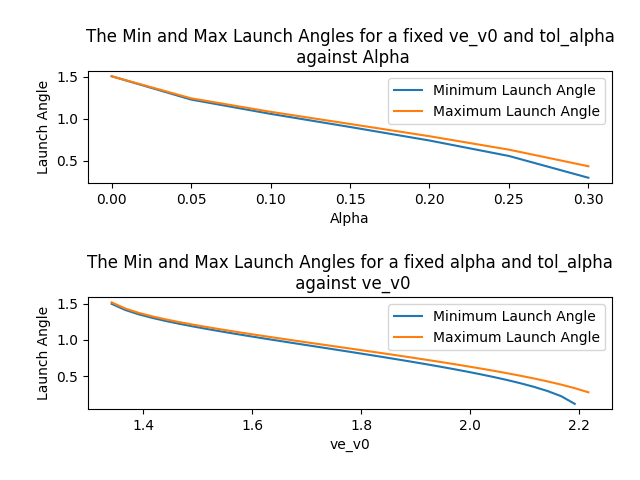
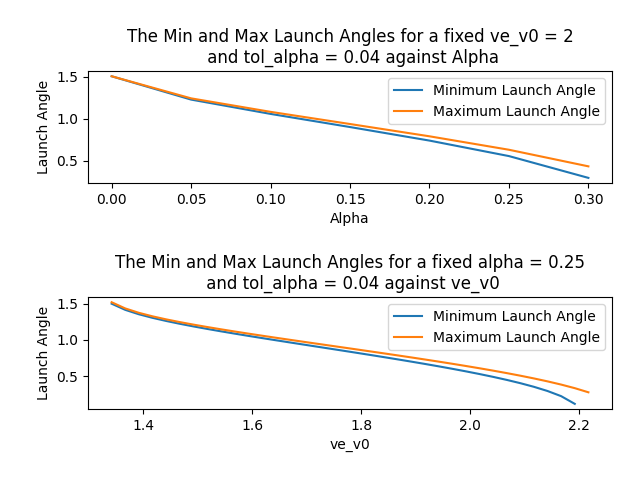
more changes

diff --git a/src/launch.py b/src/launch.py
@@ -165,7 +165,7 @@ def max_altitude_ratio(ve_v0):
     for a given velocity ratio.
     Perameters
     ----------
-    sin(x) = 0
+    sin(x) = 0 (x=0)
         Angle when leaving is vertical
         In the sin function created earlier, I use x, x = phi
     Reterns
@@ -185,7 +185,7 @@ def min_velocity_ratio(alpha):
     for a given target peak altitude ratio.
     Perameters
     ----------
-    sin(x) = pi/2
+    sin(x) = 1 (x=pi/2)
         At this angle we will need the more initial velocity which gives a smaller ratio 
         In the sin function created earlier, I use x, x = phi
     Return
@@ -206,7 +206,7 @@ def max_velocity_ratio(alpha):
     for a given target peak altitude ratio.
     Perameters
     ----------
-    sin(x) = 0
+    sin(x) = 0 (x=0)
         At this angle we will need less initial velocity which gives a bigger ratio
         In the sin function created earlier, I use x, x = phi
 

diff --git a/src/driver.py b/src/driver.py
@@ -45,7 +45,7 @@ def main():
     plt.plot(alpha_range, max_alpha_angle, label = "Maximum Launch Angle")
     plt.xlabel("Alpha")
     plt.ylabel("Launch Angle")
-    plt.title("The Min and Max Launch Angles for a fixed ve_v0 and tol_alpha\n against Alpha")
+    plt.title("The Min and Max Launch Angles for a fixed ve_v0 = 2\n and tol_alpha = 0.04 against Alpha")
     plt.legend()
    
     
@@ -73,7 +73,7 @@ def main():
     plt.plot(ve_v0_range, max_ve_v0_angle, label = "Maximum Launch Angle")
     plt.xlabel("ve_v0")
     plt.ylabel("Launch Angle")
-    plt.title("The Min and Max Launch Angles for a fixed alpha and tol_alpha\n against ve_v0")
+    plt.title("The Min and Max Launch Angles for a fixed alpha = 0.25\n and tol_alpha = 0.04 against ve_v0")
     plt.legend()
 
 
